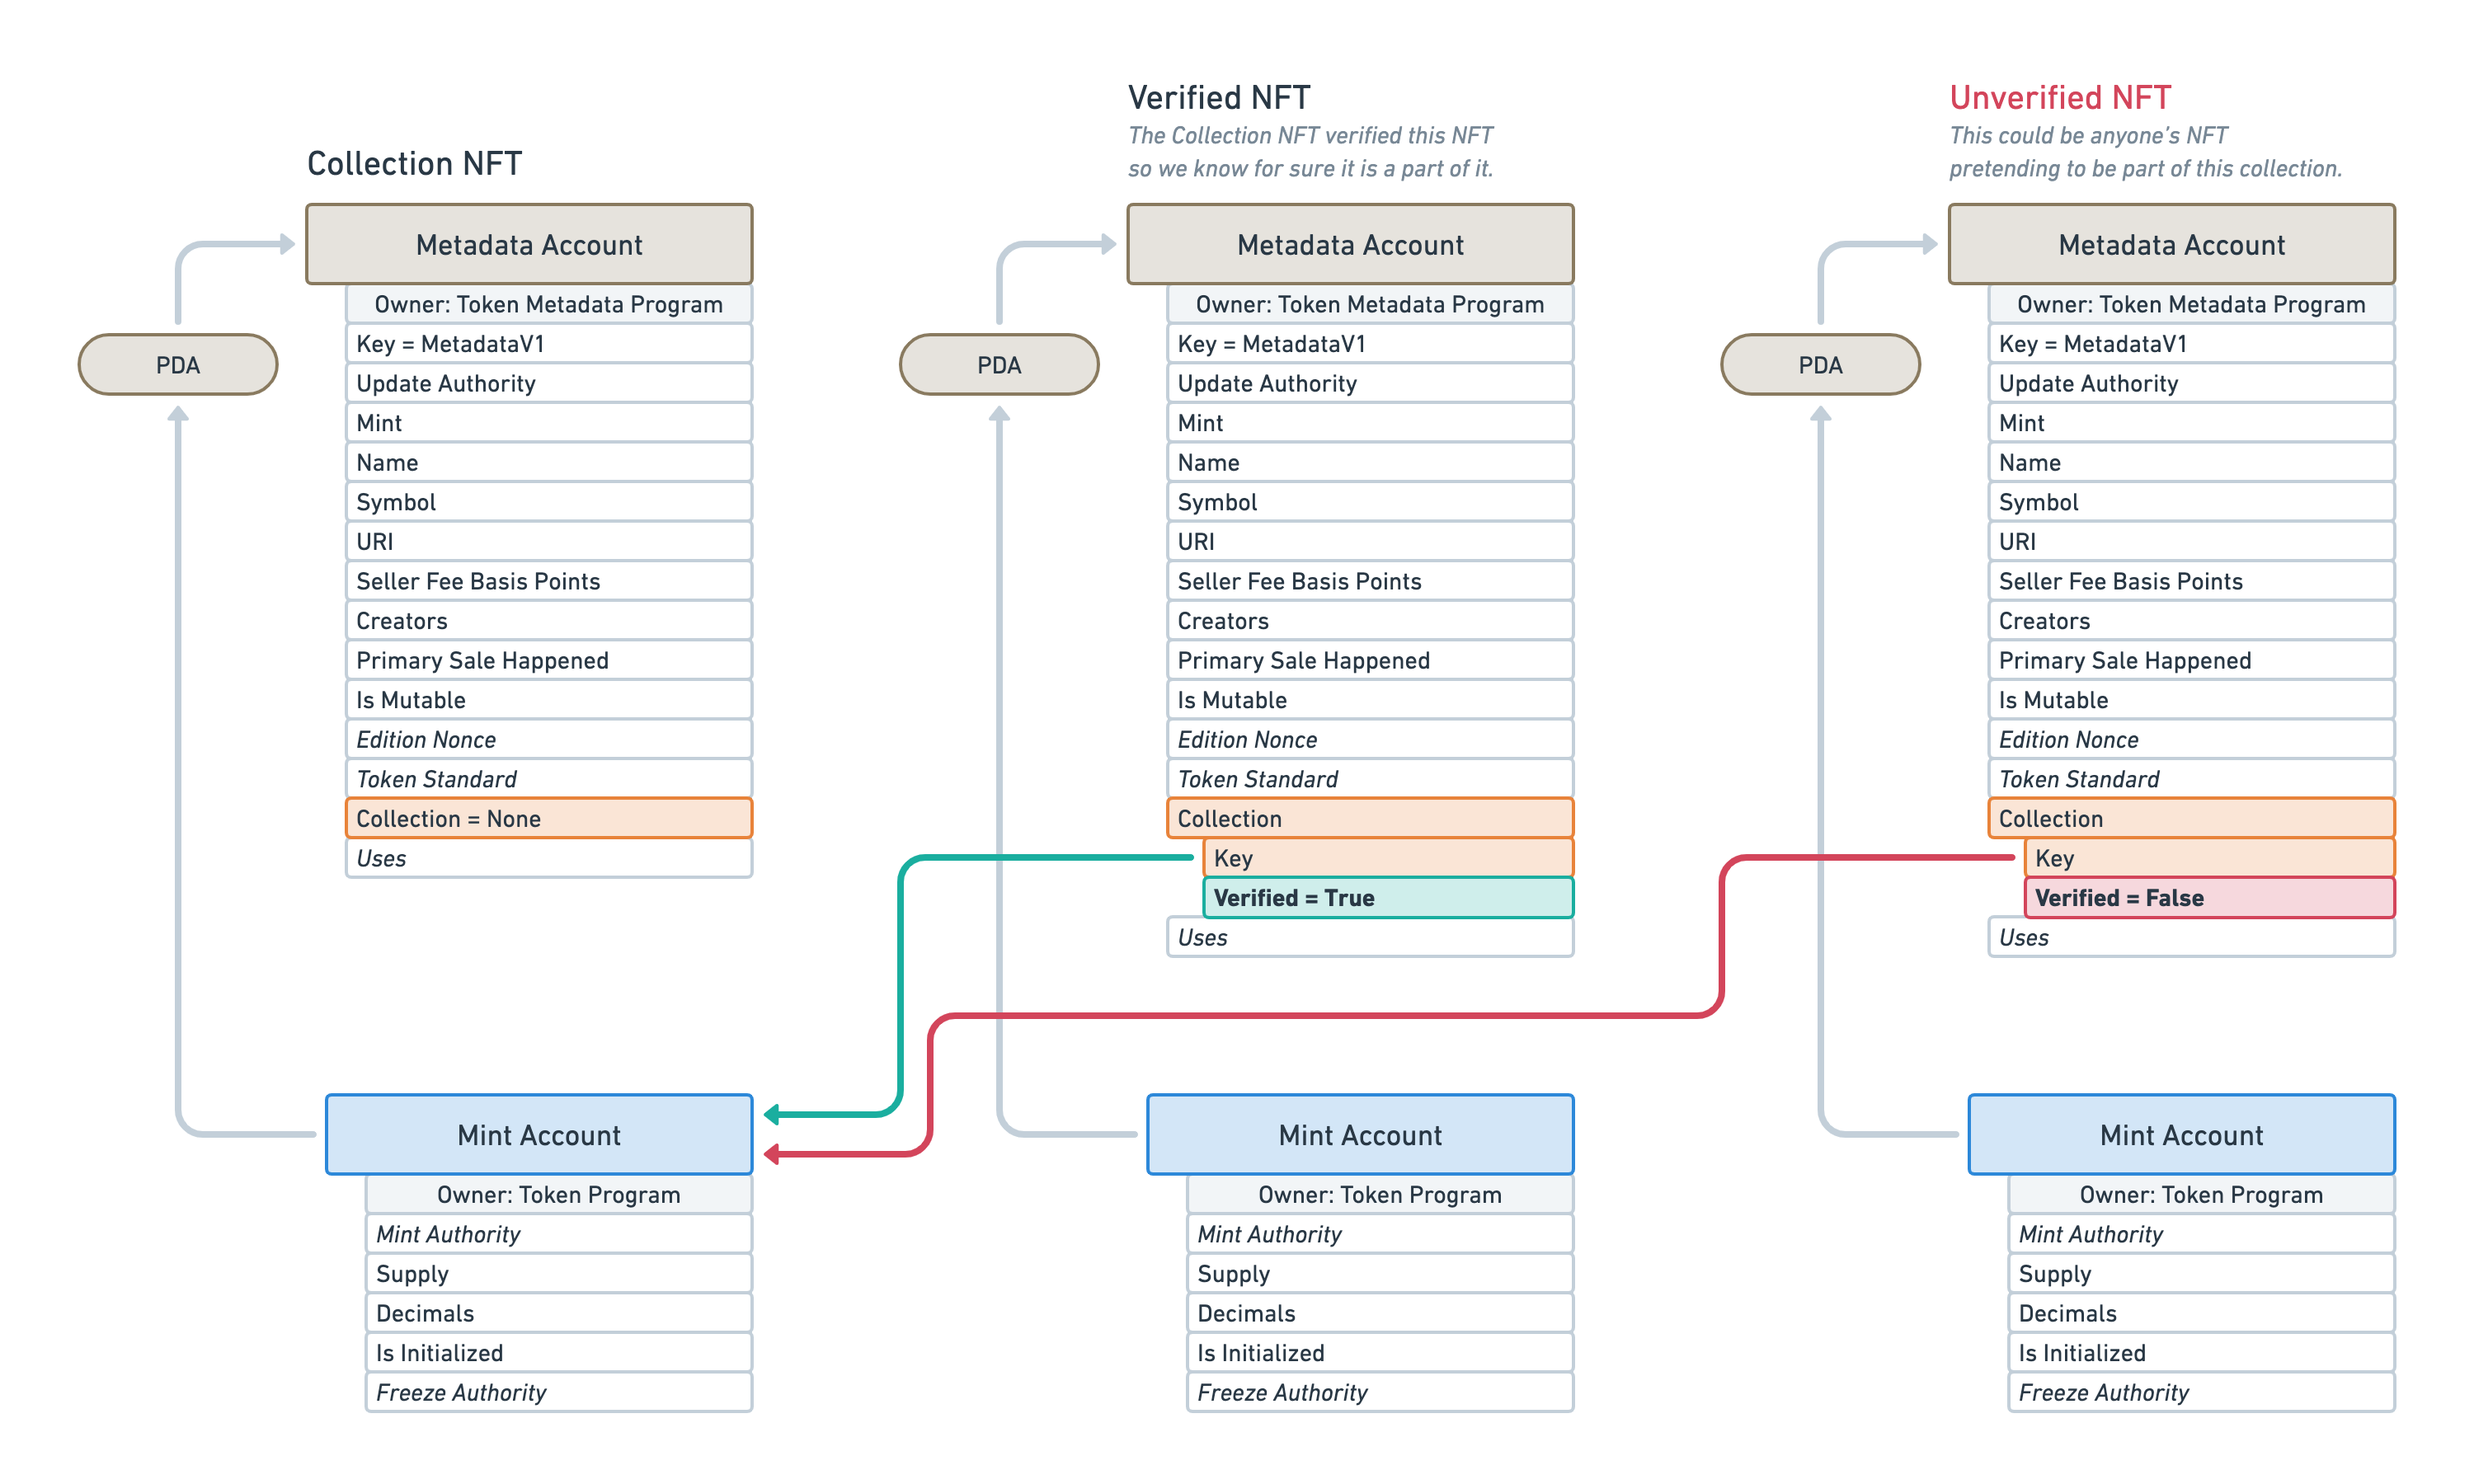
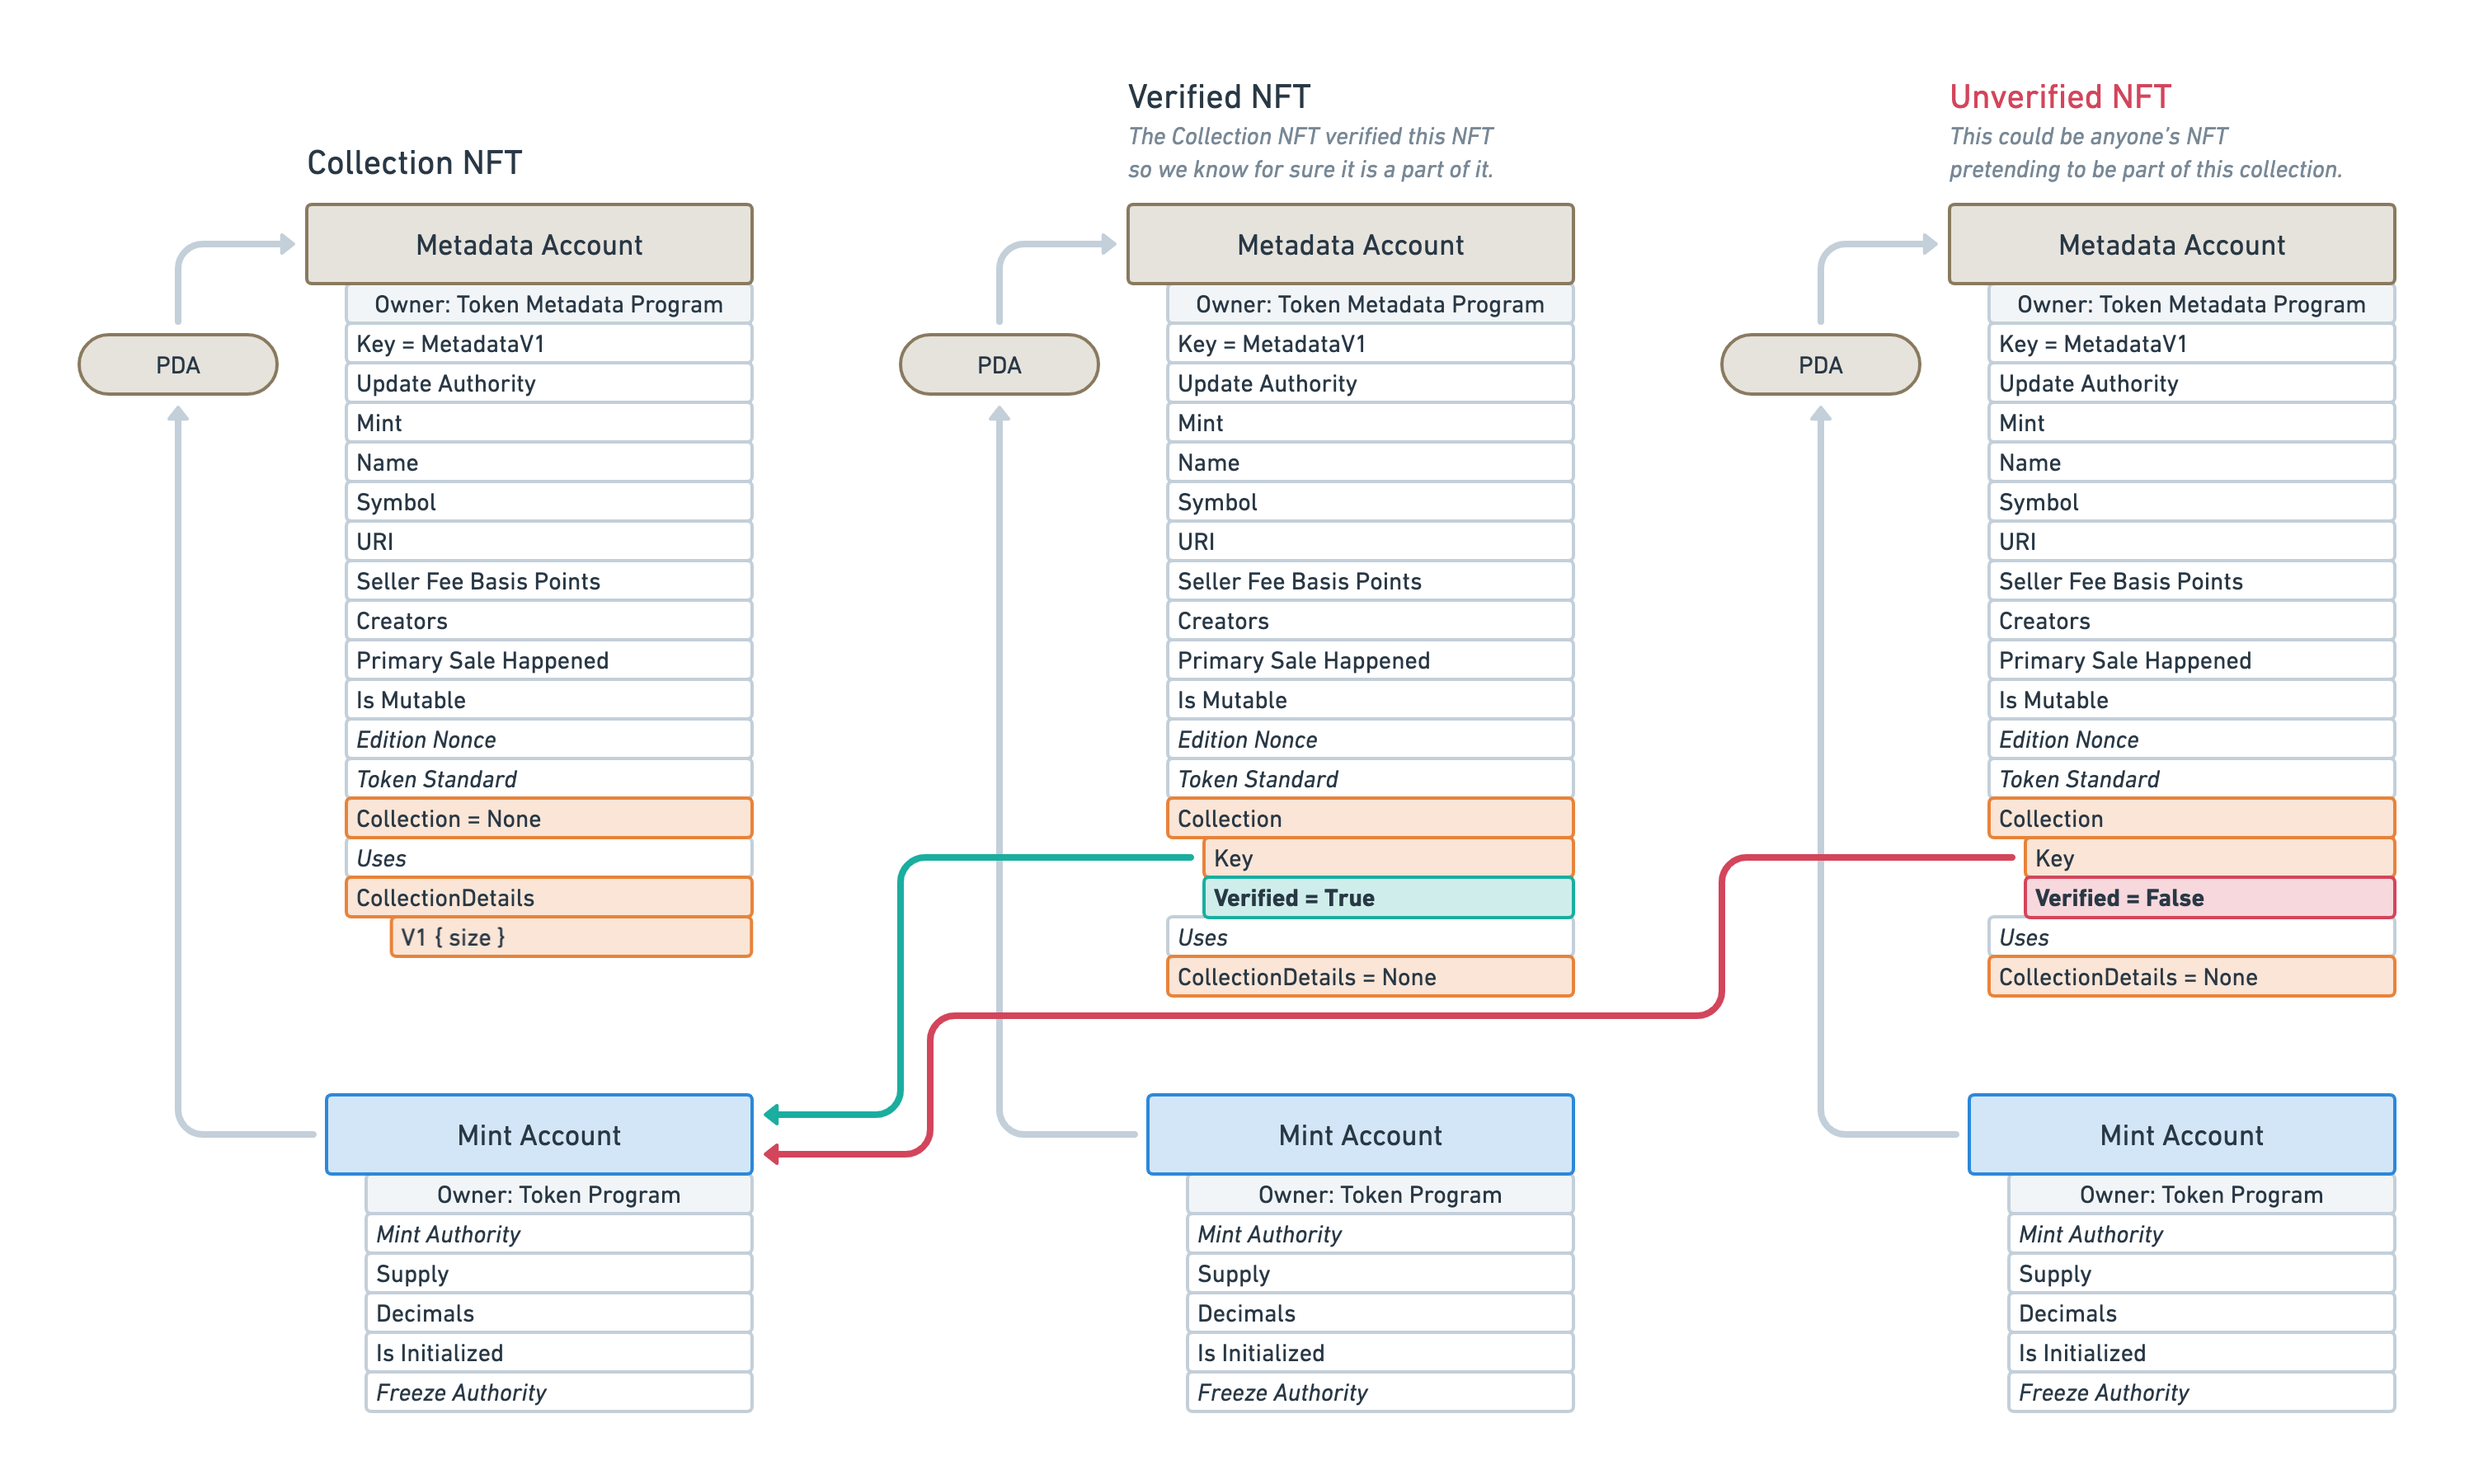
refactor(token-metadata): update certified collections page and add v1.3 changelog

diff --git a/docs/programs/token-metadata/certified-collections.md b/docs/programs/token-metadata/certified-collections.md
@@ -18,6 +18,8 @@ This feature provides the following advantages:
 
 The on-chain Certified Collection feature has been added to the Token Metadata program in [version 1.1](./changelog/v1.1).
 
+The additional CollectionDetails field has been added in [version 1.3](./changelog/v1.3).
+
 It replaces the `collection` field previously defined in external JSON metadata.
 
 :::
@@ -38,11 +40,11 @@ As such, the `Collection` field contains two nested fields:
 - `Key`: This field points to the Collection NFT the NFT belongs to. More precisely, it points to **the public key of the Mint Account** of the Collection NFT. This Mint Account must be owned by the SPL Token program.
 - `Verified`: This boolean is very important as it is used to verify that the NFT is truly part of the collection it points to.
 
+In addition, as of v1.3+ there is an additional field, `CollectionDetails` which contains a `size` value that stores how many items are in the collection. In addition to storing the size, this field is used to definitively differentiate a Collection NFT from a Regular NFT. Given this is a new field, not all existing collections will use it but new collections are encouraged to use it, both to allow sizing their collections and provide an on-chain way to determine a Collection NFT from a Regular one. 
+
 ![](./assets/Token-Metadata-Collections-Collection-NFT.png)
 
 Notice that, because Collections and NFTs are linked together via a "Belong To" relationship, it is possible by design to define nested collections.
-
-Also note that there is currently no way to distinguish between a Collection NFT and a Regular NFT that is part of a Collection. This is a limitation we are currently working on as part of [version 1.3](https://github.com/metaplex-foundation/metaplex-program-library/discussions/444).
 
 ## Verifying NFTs in Collections
 
@@ -126,3 +128,53 @@ Note that the Metaplex team has recorded a video tutorial on how Verified Collec
 [![Verified Collections Tutorial](./assets/verified-collections.gif)](https://drive.google.com/file/d/1VU4xL_yF6LCe0UogVn4As5PMAzUV__8C/view?usp=sharing)
 
 </div>
+
+## Sized Collections
+
+NFT metadata now have an optional `CollectionDetails` field which is an enum with a size field containing the number of items in the collection. The presence of the `CollectionDetails` enum indicates if that particular NFT is definitively a Collection NFT. However, the inverse is not necessarily true, as NFTs without the field that were created prior to v1.3 could still be parent NFTs as we need to maintain backwards compatibility.
+
+```rust
+   pub struct Metadata {
+   pub key: Key,
+   pub update_authority: Pubkey,
+   pub mint: Pubkey,
+   pub data: Data,
+   // Immutable, once flipped, all sales of this metadata are considered secondary.
+   pub primary_sale_happened: bool,
+   // Whether or not the data struct is mutable, default is not
+   pub is_mutable: bool,
+   /// nonce for easy calculation of editions, if present
+   pub edition_nonce: Option<u8>,
+   /// Since we cannot easily change Metadata, we add the new DataV2 fields here at the end.
+   pub token_standard: Option<TokenStandard>,
+   /// Collection
+   pub collection: Option<Collection>,
+   /// Uses
+   pub uses: Option<Uses>,
+   pub collection_details: Option<CollectionDetails>, // <--- New in v1.3
+}
+
+pub enum CollectionDetails {
+   V1 { size: u64 },
+}
+```
+
+Sized collections have new handlers for verifying, unverifying and set-and-verifying:
+
+- verify_sized_collection_item
+- unverify_sized_collection_item
+- set_and_verify_sized_collection_item
+
+These handlers only work on sized collections as they increment or decrement the collection size as appropriate.
+
+The previous handlers:
+
+- verify_collection
+- unverify_collection
+- set_and_verify_collection
+
+still work—but only on unsized collections, collections where the Parent NFT does not have the field populated or has it set to `None`. Using the wrong handler on the wrong collection type will fail.
+
+There is a `set_collection_size` handler that allows existing collections to set their collection size field _once_, where-after it gets tracked on-chain.
+
+Finally, the `burn_nft` handler checks if a NFT is verified part of a collection, and if it is, requires the collection metadata account to be passed in so the collection size can be decremented.

diff --git a/docs/programs/token-metadata/changelog/v1.3.md b/docs/programs/token-metadata/changelog/v1.3.md
@@ -1,0 +1,41 @@
+---
+title: "v1.3"
+sidebar_position: 3
+---
+
+# Version 1.3
+
+## New Features
+
+- Sized Collections
+- Burning NFTs
+- Set Token Standard
+
+## New Instructions
+
+- `CreateMetadataAccountV3`
+  - Same as `CreateMetadataAccount2`, but supports `CollectionDetails`
+- `VerifySizeCollectionItem`
+  - Allows a sized collection item `verified` flag to become `true` on an NFT to represent a Certified Collection. Essentially this officially adds to a Collection.
+- `UnVerifySizedCollectionItem`
+  - Allows a sized collection `verified` flag to become `false` on an NFT to represent a Certified Collection. Essentially this officially removes from a Collection.
+- `SetAndVerifySizedCollectionItem`
+  - Allows both setting and verifying, in the same instruction, the collection item for a sized collection.
+- `SetCollectionSize`
+  - Allows an unsized collecetion to set its size once to migrate to the new sized collection standard.
+- `SetTokenStandard`
+  - Allows a token without a token standard to have it set. The program automatically detects and sets the correct token standard type.
+- `BurnNft`
+  - Allows the owner of a NFT to burn it and reclaim funds locked up in token, metadata and edition accounts.
+
+
+## Deprecations
+
+- The following instruction now shows a deprecation warning when executed
+  - `CreateMetadataAccountV2` - _please use `CreateMetadataAccountV3` instead_
+
+## Removals
+
+Removal of previously deprecated instructions
+
+- 

diff --git a/docs/programs/token-metadata/changelog/overview.md b/docs/programs/token-metadata/changelog/overview.md
@@ -6,6 +6,7 @@ sidebar_position: 1
 
 This page aims to document the changes made to the Token Metadata program.
 
+- **[Version 1.3](https://github.com/metaplex-foundation/metaplex-program-library/discussions/444)** adds sized collections, the ability to burn a NFT, and for tokens without a standard typeto set it.
 - **[Version 1.2](https://github.com/metaplex-foundation/metaplex-program-library/discussions/178)** provides security precautions and additional features such as the ability to freeze a Token account as a delegate.
 - **[Version 1.1](./v1.1)** adds lots of useful features such as keeping track of the token's fungibility, supporting Collection NFTs and utilizing NFTs.
 - **[Version 1.0](./v1.0)** is the initial version of the program offering the basis of the Token Metadata standard.
